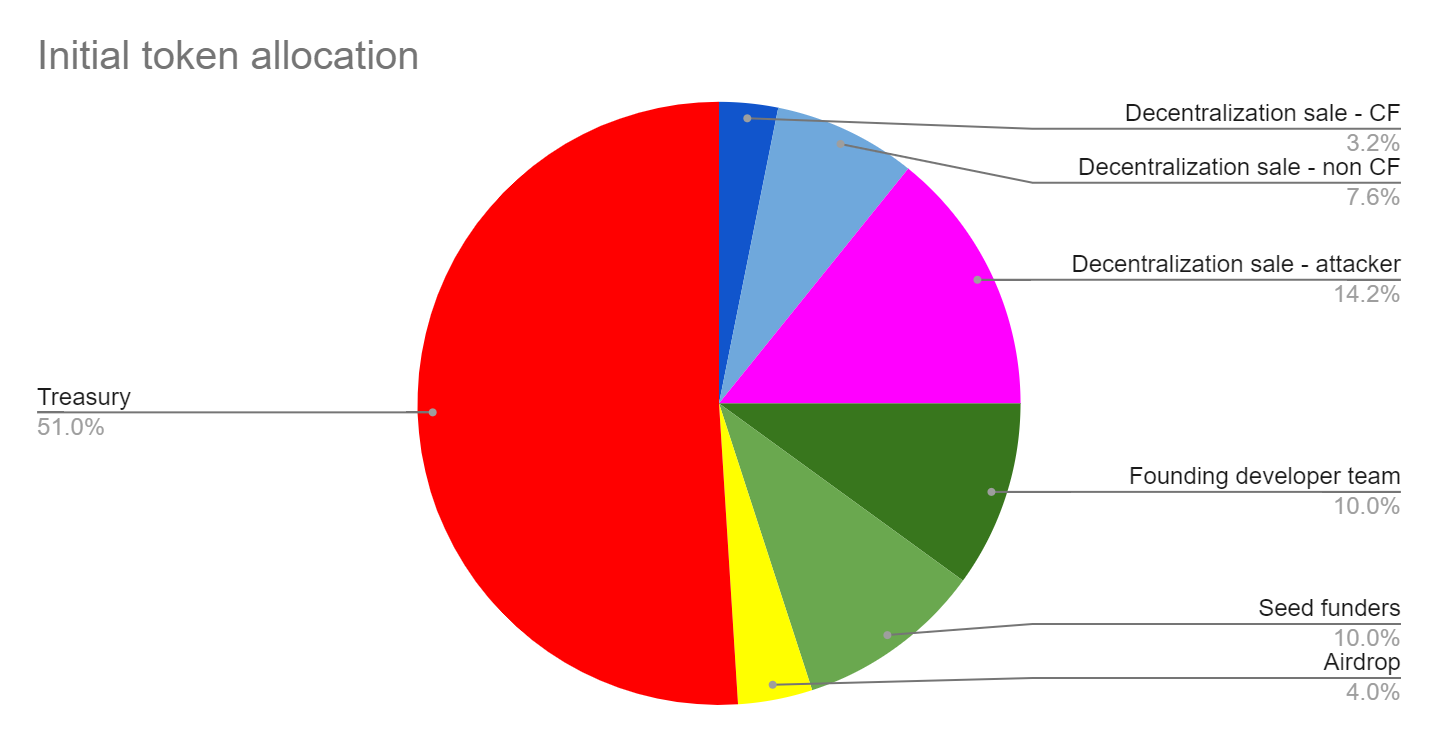
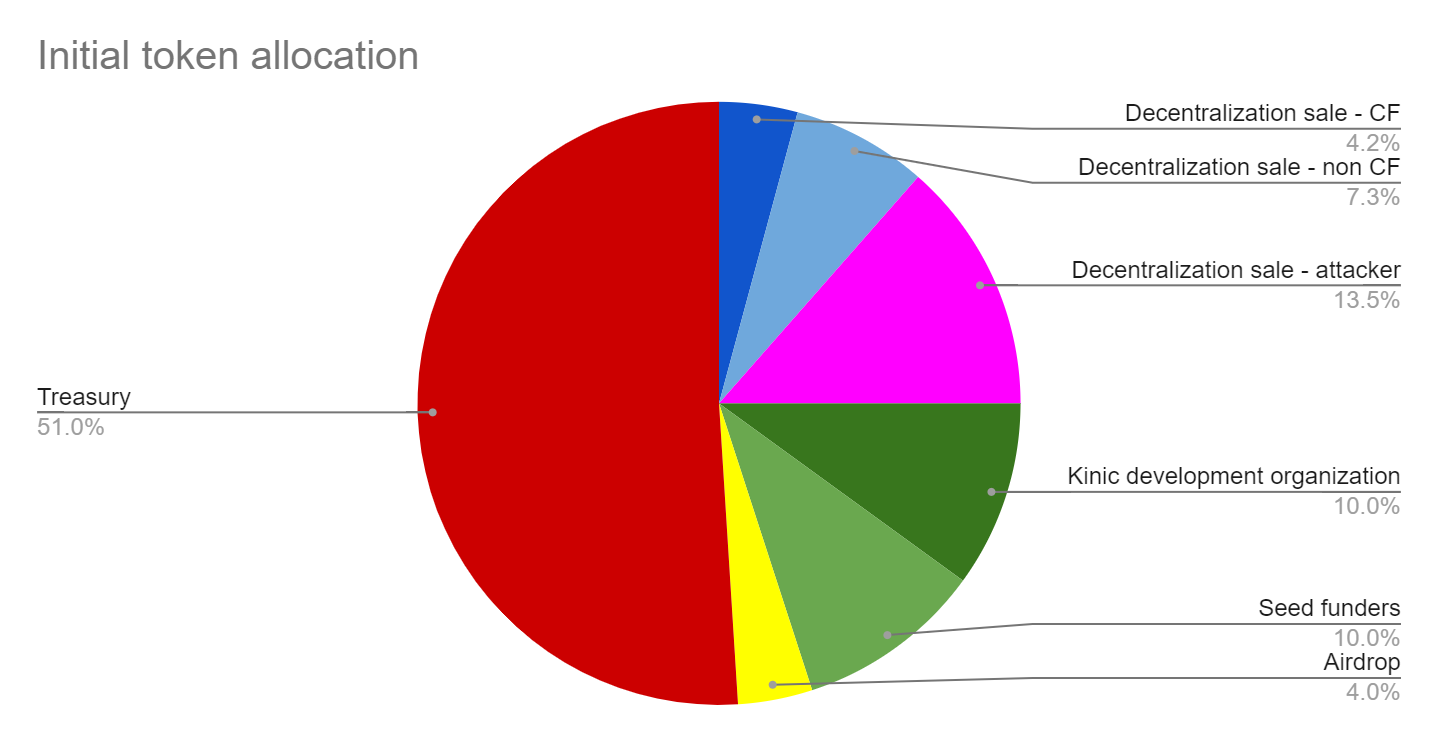
Change docs

Changed region(s): [[0.2754, 0.124, 0.7038, 0.9609], [0.6732, 0.341, 0.9791, 0.434], [0.7344, 0.6199, 0.9791, 0.6509]]

diff --git a/frontend/Search.vue b/frontend/Search.vue
@@ -31,25 +31,30 @@
 
   <!-- WHITEPAGE -->
   <header v-if="whitepaperMode" class="h-full">
-        <div class="content px-8 pt-4 pb-2 blackBG">
+        <div class="content px-8 pt-4 pb-2 blackBG" id="top">
             <!-- SEARCH RESULT PAGE NAV -->
             <nav class="flex items-center justify-between mt-1 mb-1">
                 <div class="mb-2 text-4xl font-extrabold leading-none tracking-tight md:text-3xl lg:text-4xl text-white">
-                  Kinic SNS Whitepaper
+                  Kinic SNS DAO Whitepaper
                 </div>
             </nav>
         </div>
         <div class="w-full px-8 pt-4">
             <div class="mb-4 rounded-t-1">
                 <div class="p-4 sm:mx-1 lg:mx-8 leading-normal text-lg">
+                  <h5 class="mb-2">
+                    <h2 section-trigger class="relative flex items-center w-full text-2xl font-semibold text-left border-b border-solid">
+                      Table of Contents
+                    </h2>
+                  </h5>
                   <nav class="space-y-2">
-                    <a href="#executive-summary" class="block text-blue-600 font-medium hover:underline">Executive Summary</a>
-                    <a href="#the-kinic-vision-and-product" class="block text-blue-600 font-medium hover:underline">The Kinic Vision and Product</a>
-                    <a href="#kinic-dao" class="block text-blue-600 font-medium hover:underline">Kinic DAO</a>
-                    <a href="#kinic-token-and-revenue" class="block text-blue-600 font-medium hover:underline">KINIC Token and Revenue</a>
-                    <a href="#kinic-dao-tokenomics" class="block text-blue-600 font-medium hover:underline">Kinic DAO Tokenomics</a>
-                    <a href="#launch-allocations-and-mechanics" class="block text-blue-600 font-medium hover:underline">Launch Allocations and Mechanics</a>
-                    <a href="#legal-disclaimers" class="block text-blue-600 font-medium hover:underline">Legal Disclaimers</a>
+                    <a href="#executive-summary" class="block text-blue-600 font-medium hover:underline">1. Executive Summary</a>
+                    <a href="#the-kinic-vision-and-product" class="block text-blue-600 font-medium hover:underline">2. The Kinic Vision and Product</a>
+                    <a href="#kinic-dao" class="block text-blue-600 font-medium hover:underline">3. Kinic DAO Launch and Governance</a>
+                    <a href="#kinic-token-and-revenue" class="block text-blue-600 font-medium hover:underline">4. Kinic DAO Treasury and Token Utility</a>
+                    <a href="#kinic-dao-tokenomics" class="block text-blue-600 font-medium hover:underline">5. Kinic DAO Tokenomics</a>
+                    <a href="#launch-allocations-and-mechanics" class="block text-blue-600 font-medium hover:underline">6. Launch Allocations and Mechanics</a>
+                    <a href="#legal-disclaimers" class="block text-blue-600 font-medium hover:underline">7. Token Holder Rights and Limitations</a>
                   </nav>
                   <div section-content class="overflow-hidden transition-all ease-soft-in-out duration-350">
                     <p class="mt-4 text-md text-gray-500">
@@ -65,16 +70,17 @@
                   <h5 class="mb-2">
                     <h2 section-trigger class="relative flex items-center w-full p-4 text-2xl font-semibold text-left border-b border-solid">
                       1. Executive Summary
+                      <a href="#top" class="hidden sm:block absolute right-4 text-sm cursor-pointer text-gray-800">Back to top</a>
                     </h2>
                   </h5>
                   <p class="mb-3">Kinic is the first and only search engine for web3 content that runs on blockchain.</p>
-                  <p class="mb-3">Kinic the answer to other search engines that are operated by a centralized entity, undermine data privacy, favor established players, and ignore the emerging world of web3 content.</p>
+                  <p class="mb-3">Kinic the answer to Google and other search engines that are operated by a centralized entity, undermine data privacy, favor established players, and ignore the emerging world of web3 content.</p>
                   <p class="mb-3">Currently, Kinic allows you to search all frontend canisters on the Internet Computer blockchain. Kinic’s roadmap includes adding content hosted on other blockchains and decentralized storage networks. Kinic’s SEO module will involve unprecedented transparency backed by zero-knowledge machine learning (ZKML) technology. All users will be able to trust that they are getting the best results as determined by Kinic’s algorithms, and are not being served ad based content other than which is clearly transparent.</p>
                   <p class="mb-3">Kinic’s vision will be fulfilled by decentralizing its governance using an on-chain, decentralized autonomous organization (DAO). The DAO will operate using the IC’s unique service nervous system. The Kinic DAO will manage and improve the Kinic software service by voting on proposals.</p>
                   <p class="mb-3">To submit proposals and vote, KINIC token holders must lock (“stake”) their tokens into neurons. To incentivize KINIC token holders to stake their tokens into neurons and vote, neurons receive rewards for voting that can be converted to KINIC tokens.</p>
                   <p class="mb-3">The treasury controlled by the Kinic DAO will hold KINIC tokens and ICP tokens. KINIC tokens can be used to pay for Kinic's current and upcoming products and services. The Kinic DAO earns ICP as revenue when users purchase KINIC tokens from the DAO. ICP tokens in the DAO’s treasury can be used to fund expenses.</p>
                   <p class="mb-3">Tokenomics refers to the initial set up and rules that drive the supply and trading of tokens. The total supply of KINIC tokens upon launch will be 6 million tokens. Minting tokens increases the total supply and burning tokens decreases them. KINIC tokens can only be burned by proposal. A reward rate of 2.5% of the total annual supply will be minted to pay voting rewards. KINIC tokens that are locked in a neuron are not part of the liquid supply.</p>
-                  <p class="mb-3">The Kinic DAO will launch with a total supply of 6 million KINIC tokens. 25% will be available for open sale in exchange for ICP tokens. 50% of the tokens will remain in the DAO’s treasury. 10% will be allocated to the development team and 10% allocated to seed funders. The maximum ICP that can be earned in the sale of the KINIC tokens is 2 million ICP. The minimum is 500,000 ICP. 1 KINIC token may be worth between 0.33 and 1.33 ICP tokens based on the DAO earning between 500,000 and 2 million ICP tokens in the decentralization sale.</p>
+                  <p class="mb-3">The Kinic DAO will launch with a total supply of 6 million KINIC tokens. 25% will be available for open sale in exchange for ICP tokens. 50% of the tokens will remain in the DAO’s treasury. 10% will be allocated to the Kinic development organization and 10% allocated to seed funders. The maximum ICP that can be earned in the sale of the KINIC tokens is 1.5 million ICP. The minimum is 500,000 ICP. 1 KINIC token may be worth between 0.33 and 1 ICP tokens based on the DAO earning between 500,000 and 1.5 million ICP tokens in the decentralization sale.</p>
 
                 </div>
               </div>
@@ -85,6 +91,7 @@
                   <h5 class="mb-2">
                     <h2 id="the-kinic-vision-and-product" section-trigger class="relative flex items-center w-full p-4 text-2xl font-semibold text-left border-b border-solid">
                       2. The Kinic Vision and Product
+                      <a href="#top" class="hidden sm:block absolute right-4 text-sm cursor-pointer text-gray-800">Back to top</a>
                     </h2>
                   </h5>
                   <p class="mb-3 font-semibold text-xl">Summary</p>
@@ -109,8 +116,8 @@
                     Several unique features, however, arguably make the IC the world’s most powerful blockchain and in many ways the truest embodiment of web3 to date. These features include the following:
                   </p>
                   <ol class="list-decimal list-inside mb-3">
-                    <li>IC smart contracts not only execute on-chain transactions but also store content files and other forms of data entirely on chain <a class="blueText" href="https://internetcomputer.org/how-it-works/smart-contracts-serve-the-web/" target="_blank">(32 gigabytes per smart contract)</a>.
-                      These smart contracts are referred to as “canisters”. A primary benefit is that they can run in any web browser because they are <a class="blueText" href="https://webassembly.org/" target="_blank">WebAssembly-based programs.</a></li>
+                    <li>IC smart contracts not only execute on-chain transactions but also store content files and other forms of data entirely on chain <a class="blueText" href="https://internetcomputer.org/how-it-works/smart-contracts-serve-the-web/" target="_blank">(52 gigabytes per smart contract)</a>.
+                      These smart contracts are referred to as “canisters”. A primary benefit is that web browsers can directly interact with canister smart contracts.</li>
                     <li>The IC blockchain operates at the <a class="blueText" href="https://wiki.internetcomputer.org/wiki/Web_Speed" target="_blank">speed of the standard web</a> and in principle can scale infinitely with the addition of more nodes.</li>
                     <li>Any web browser <a class="blueText" href="https://wiki.internetcomputer.org/wiki/Web_Serving" target="_blank">can be used</a> to view content stored on the IC, including websites and the front-end graphics that run inside smart contract canisters.</li>
                     <li>Publishing content to a smart contract can be done anonymously using login credentials such as the IC’s Webauthn-based <a class="blueText" href="https://wiki.internetcomputer.org/wiki/Internet_Computer_wiki#Internet_Identity_Introduction" target="_blank">Internet Identity</a>.</li>
@@ -118,7 +125,7 @@
                   </ol>
 
                   <p class="mb-3">
-                    As a result, the IC is an end-to-end decentralized compute platform and content network where everything takes place, is stored, and published on chain. More information about the IC is available <a class="blueText" href="https://internetcomputer.org/" target="_blank">here</a>. Other parts of the web3 ecosystem include decentralized content storage networks that complement the IC by specializing in long-term storage of files that are not frequently accessed. These networks include the Interplanetary File System and Arweave.
+                    As a result, the IC is an end-to-end decentralized compute platform and content network where everything takes place, is stored, and published on chain. More information about the IC is available <a class="blueText" href="https://internetcomputer.org/" target="_blank">here</a>. Other parts of the web3 ecosystem include decentralized content storage networks that complement the IC by specializing in long-term storage of files that are not frequently accessed. These networks include the Interplanetary File System (IPFS) and Arweave.
                   </p>
                   <p class="mb-3">
                     Content that is hosted on web3 needs a new vision for search. And Kinic provides a profound new vision: search that is fully private, user centric, and built on and for web3. The name Kinic comes from the word kin from kinship.
@@ -129,6 +136,8 @@
                   <ol class="list-decimal list-inside mb-3">
                     <li>
                       <b>Runs on chain.</b> Kinic is the only search engine that runs <b>entirely on chain</b> to benefit from the privacy, security, and immutability features of blockchain.
+                      Unlike privacy-focused search engines like DuckDuckGo that trust a centralized corporation to maintain user privacy, Kinic must operate according to the privacy-protecting <a class="blueText" target="_blank" href="https://medium.com/dfinity/the-internet-computer-blockchains-privacy-advantages-73340c6c42db">protocol rules</a> of the Internet Computer blockchain and its anonymous
+                      <a class="blueText" target="_blank" href="https://internetcomputer.org/docs/current/tokenomics/identity-auth/what-is-ic-identity"> login methods</a>.
                     </li>
                     <li>
                       <b>Searches content on web3.</b> Kinic is the only search engine dedicated to searching frontend content <b>on web3</b> as opposed to content about web3 that is on web2 such as <a class="blueText" href="https://www.kaito.ai/" target="_blank">Kaito</a>.
@@ -137,7 +146,7 @@
                       <b>Searches all of web3.</b> Kinic is the only search engine dedicated to searching <b>all</b> frontend content on web3 and not focused only on one web3 network such as <a class="blueText" href="https://ipfs-search.com/#/" target="_blank">IPFS Search</a>.
                     </li>
                     <li>
-                      <b>Searches frontend</b>. Kinic is the only <b>frontend</b> search engine for web3 unlike backend blockchain and NFT data explorers and analytics platforms.
+                      <b>Searches frontend</b>. Kinic is the only <b>frontend</b> search engine for web3. This is in contrast to backend blockchain and NFT data explorers and indexing protocols such as <a class="blueText" href="https://thegraph.com/en/" target="_blank">The Graph</a>.
                     </li>
                   </ol>
                   <hr class="mb-3"/>
@@ -192,7 +201,8 @@
                   </ol>
                   <h5 class="mt-5 mb-2">
                     <h2 id="kinic-dao" section-trigger class="relative flex items-center w-full p-4 text-2xl font-semibold text-left border-b border-solid">
-                      3. Kinic DAO: Launch and Governance
+                      3. Kinic DAO Launch and Governance
+                      <a href="#top" class="hidden sm:block absolute right-4 text-sm cursor-pointer text-gray-800">Back to top</a>
                     </h2>
                   </h5>
                   <p class="mb-3 font-semibold text-xl">
@@ -224,7 +234,7 @@
                     Creation of the Kinic DAO will take place as follows:
                   </p>
                   <ol class="list-disc list-inside mb-3">
-                    <li>Kinic developers will submit a proposal to the NNS with details (parameters) about the decentralization sale such as the initial token allocation, voting rules and rewards, and tokenomics. </li>
+                    <li>The Kinic development organization will submit a proposal to the NNS with details (parameters) about the decentralization sale such as the initial token allocation, voting rules and rewards, and tokenomics. </li>
                     <li>If the proposal is approved by the NNS, the decentralization sale of KINIC tokens will begin to take place.</li>
                     <li>The ICP raised in the sale will be placed into the smart contract canister owned and controlled by the Kinic DAO. </li>
                   </ol>
@@ -284,7 +294,7 @@
                     To incentivize KINIC holders to vote, voters receive voting rewards each time they vote.
                   </p>
                   <p class="mb-3">
-                    To qualify for voting rewards, KINIC holders must first stake their tokens and set the neuron’s dissolve delay. The dissolve delay is the length of time that a neuron is locked. One year is the maximum dissolve delay.
+                    To qualify for voting rewards, KINIC holders must first stake their tokens and set the neuron’s dissolve delay to at least one month long. The dissolve delay is the length of time that a neuron is locked. One year is the maximum dissolve delay.
                   </p>
                   <p class="mb-3">
                     Staked KINIC tokens (neurons) cannot be traded. To unlock staked KINIC tokens, they must be dissolved. When the dissolve delay has ended, the KINIC tokens can be dissolved and then traded.
@@ -296,13 +306,10 @@
                     When neurons vote, voting rewards are earned by the neurons in the form of a maturity. Maturity is an attribute of a neuron and not a tradable asset. The more a neuron votes, the more maturity their neuron obtains. Voting rewards (maturity) are earned daily based on all of the votes of the DAO that ended on that day.
                   </p>
                   <p class="mb-3">
-                    To generate income from maturity, the KINIC token holder must first convert the maturity into a new neuron that will contain new KINIC tokens. This process will consume (or “burn”) the converted maturity. It is also the primary inflationary mechanism for KINIC tokens.
+                    To generate income from maturity, the KINIC token holder must convert (disburse) the maturity into new KINIC tokens. This process will consume (or “burn”) the converted maturity. By default, units of maturity are converted into KINIC tokens on a 1:1 basis. For example, disbursing a neuron that 100 has maturity will convert to 100 KINIC tokens. These new KINIC tokens will be provided to the token holder’s main account.
                   </p>
                   <p class="mb-3">
-                    The ratio of maturity to ICP changes over time based on the ICP/Cycles conversion rate. For example, converting 100 maturity on February 1, 2022 would earn 100.73 ICP. Further details about converting maturity to ICP can be found <a class="blueText" href="https://wiki.internetcomputer.org/wiki/Maturity_modulation" target="_blank">here</a>.
-                  </p>
-                  <p class="mb-3">
-                    As an alternative to converting maturity into KINIC, a voting member can also stake their maturity to earn additional voting rewards.
+                    As an alternative to converting maturity into KINIC tokens, a voting member can also stake their maturity to earn additional voting rewards.
                   </p>
                   <p class="mb-3 font-semibold underline">
                     Voting Power: Dissolve Delay Bonus and Age Bonus
@@ -327,7 +334,7 @@
                     Neurons can directly vote on individual proposals using the Kinic section inside the NNS app <a class="blueText" href="https://nns.ic0.app/" target="_blank">here</a>. Neurons can also delegate their votes to another voting member.
                   </p>
                   <p class="mb-3">
-                    Vote delegation is accomplished by setting a neuron to follow another neuron; that is, to vote along with the votes of another neuron (per proposal type). For example, neurons can follow the Kinic development team voting neuron The follower neuron will vote for a proposal if a majority of the development team agrees. This way, neurons will follow the development team’s votes. An advantage of following the development team’s neuron is that the development team votes on every proposal. This enables followers to maximize voting rewards for voting on every proposal as well.
+                    Vote delegation is accomplished by setting a neuron to follow another neuron; that is, to vote along with the votes of another neuron (per proposal type). For example, neurons can follow the Kinic development organization voting neuron The follower neuron will vote for a proposal if a majority of the Kinic development organization agrees. This way, neurons will follow the Kinic development organization’s votes. An advantage of following the Kinic development organization’s neuron is that the Kinic development organization votes on every proposal. This enables followers to maximize voting rewards for voting on every proposal as well.
                   </p>
                   <p class="mb-3">
                     Voting neurons may effectively gain disproportionate voting power if they have a large number of followers. This is similar to representative democracy.
@@ -335,6 +342,7 @@
                   <h5 class="mt-5 mb-2">
                     <h2 id="kinic-token-and-revenue" section-trigger class="relative flex items-center w-full p-4 text-2xl font-semibold text-left border-b border-solid">
                       4. Kinic DAO Treasury and Token Utility
+                      <a href="#top" class="hidden sm:block absolute right-4 text-sm cursor-pointer text-gray-800">Back to top</a>
                     </h2>
                   </h5>
                   <p class="mb-3 font-semibold text-xl">
@@ -360,7 +368,7 @@
                     To enable the trading of KINIC, proposals will be made soon after the decentralization sale to transfer KINIC and ICP to decentralized exchange liquidity pools. The purpose of enabling trading in KINIC tokens is to enable people to join in or exit from Kinic DAO governance. The purpose is not to enable or encourage investment or speculation in KINIC tokens.
                   </p>
                   <p class="mb-3">
-                    ICP tokens in the DAO’s treasury can be used to fund expenses such as paying cycles for hosting, third-party services, and paying the development team. Infrequent proposals will be made to transfer ICP from the treasury to Kinic’s cycle dispenser canister. The purpose is for the canister can pay for cycles other Kinic canisters.
+                    ICP tokens in the DAO’s treasury can be used to fund expenses such as paying cycles for hosting, third-party services, and paying developers. Infrequent proposals will be made to transfer ICP from the treasury to Kinic’s cycle dispenser canister. The purpose is for the canister to pay for cycles other Kinic canisters.
                   </p>
                   <p class="mb-3">
                     Kinic is an on-chain service. It currently has the following off-chain dependencies:
@@ -403,7 +411,7 @@
                     The Kinic DAO earns ICP as revenue when users purchase KINIC tokens from the DAO with ICP tokens. The Kinic DAO also earns ICP if the DAO stakes its ICP into a neuron on the NNS and earns voting rewards.
                   </p>
                   <p class="mb-3">
-                    The Kinic DAO’s expenses will come from spending ICP to buy cycles for hosting costs, third party services, and the core development team.
+                    The Kinic DAO’s expenses will come from spending ICP to buy cycles for hosting costs, third party services, and the Kinic development organization.
                   </p>
                   <p class="mb-3">
                     Expenses will most likely exceed revenue for the first few years of the DAO but revenue is expected to eventually exceed DAO expenses.
@@ -411,6 +419,7 @@
                   <h5 class="mt-5 mb-2">
                     <h2 id="kinic-dao-tokenomics" section-trigger class="relative flex items-center w-full p-4 text-2xl font-semibold text-left border-b border-solid">
                       5. Kinic DAO Tokenomics
+                      <a href="#top" class="hidden sm:block absolute right-4 text-sm cursor-pointer text-gray-800">Back to top</a>
                     </h2>
                   </h5>
                   <p class="mb-3 font-semibold text-xl">
@@ -435,7 +444,7 @@
                     Voting rewards incentivize token holders to keep them locked up and not be part of the liquid supply. A reward rate of 2.5% of the total annual supply will be minted to pay voting rewards to neurons that vote. As discussed in the Kinic DAO: Launch and Governance section, these rewards are given in the form of maturity. The DAO’s initial voting reward rate of 2.5% can be changed by vote.
                   </p>
                   <p class="mb-3">
-                    A neuron’s maturity is burned when it is disbursed into a newly spawned (i.e., created) neuron. When the new neuron dissolves after 7 days, it will contain new KINIC tokens. At that time, the DAO will mint the corresponding value of KINIC tokens.
+                    A neuron’s maturity is burned when it is disbursed to provide KINIC tokens to the token holder’s main account. At that time, the DAO will mint the corresponding value of KINIC tokens. Converting maturity into KINIC tokens is the primary inflationary mechanism for KINIC tokens.The Kinic DAO will launch with a total supply of 6 million KINIC tokens. 25% will be available for open sale in exchange for ICP tokens.
                   </p>
                   <p class="mb-3">
                     KINIC tokens can only be burned by proposal. Usage of KINIC will be given back into the DAO treasury. The DAO can make a proposal to burn or otherwise utilize the tokens.
@@ -507,15 +516,17 @@
                   <h5 class="mt-5 mb-2">
                     <h2 id="launch-allocations-and-mechanics" section-trigger class="relative flex items-center w-full p-4 text-2xl font-semibold text-left border-b border-solid">
                       6. Launch Allocations and Mechanics
+                      <a href="#top" class="hidden sm:block absolute right-4 text-sm cursor-pointer text-gray-800">Back to top</a>
                     </h2>
                   </h5>
                   <p class="mb-3 font-semibold text-xl">
                     Summary
                   </p>
                   <ol class="list-disc list-inside mb-3">
-                    <li>The Kinic DAO will launch with a total supply of 6 million KINIC tokens. 25% will be available for open sale in exchange for ICP tokens. 50% of the tokens will remain in the DAO’s treasury. 10% will be allocated to the development team and 10% allocated to seed funders.</li>
-                    <li>The maximum ICP that can be earned in the sale of the KINIC tokens is 2 million ICP, and the minimum is 500,000 ICP.</li>
-                    <li>1 KINIC token may be worth between 0.33 and 1.33 ICP tokens based on earning between 500,000 and 2 million ICP tokens</li>
+                    <li>The Kinic DAO will launch with a total supply of 6 million KINIC tokens. 25% will be available for open sale in exchange for ICP tokens.</li>
+                    <li>50% of the tokens will remain in the DAO’s treasury. 10% will be allocated to the Kinic development organization, 10% allocated to seed funders, and 4% will be allocated to Kinic NFT holders via airdrop.</li>
+                    <li>The maximum ICP that can be earned in the sale of the KINIC tokens is 1.5 million ICP, and the minimum is 500,000 ICP.</li>
+                    <li>1 KINIC token may be worth between 0.33 and 1.33 ICP tokens based on earning between 500,000 and 1.5 million ICP tokens</li>
                   </ol>
                   <p class="mb-3 font-semibold underline">
                     Initial token allocation
@@ -524,13 +535,21 @@
                     The purpose of the decentralization sale is to decentralize the governance of the Kinic DAO. The Kinic DAO will launch with a total supply of 6 million KINIC tokens.
                   </p>
                   <p class="mb-3">
-                    Out of the total 6 million supply of KINIC tokens, 25% (1,500,000) will be available for open sale in exchange for ICP tokens. The maximum ICP that can be earned in the sale of the 1,500,000 KINIC is 2 million ICP, and the minimum is 500,000 ICP.
+                    Out of the total 6 million supply of KINIC tokens, 25% (1,500,000) will be available for open sale in exchange for ICP tokens. The maximum ICP that can be earned in the sale of the 1,500,000 KINIC is 1,500,000 million ICP, and the minimum is 500,000 ICP.
                   </p>
+                  <p class="mb-3">
+                    The Kinic DAO’s two million ICP funding target is based on comparable funding rounds:
+                  </p>
+                  <ol class="list-disc list-inside mb-3">
+                    <li>Privacy-focused search engine DuckDuckGo <a class="blueText" target="_blank" href="https://www.crunchbase.com/organization/duck-duck-go">has raised</a> a total of $172 million across four funding rounds, the most recent of which was <a href="https://spreadprivacy.com/duckduckgrowing/">$100 million</a> in late 2020.</li>
+                    <li>In January 2022, The Graph Foundation <a class="blueText" target="_blank" href="https://thegraph.com/blog/graph-raise/">raised</a> $50 million to build an indexing protocol for querying data on networks like Ethereum and IPFS.</li>
+                    <li>In March 2023, Kaito <a class="blueText" target="_blank" href="https://www.linkedin.com/pulse/kaito-ai-raises-53m-transform-crypto-search-chatgpt-kaitoai/?trackingId=1QyGZzaTRYMOo0rKhm0F2w%3D%3D">raised</a> $5.3 million to transform crypto search with ChatGPT.</li>
+                  </ol>
                   <p class="mb-3">
                     From the 1,500,000 KINIC tokens available as part of the open sale, Kinic will seek to sell 4.2% (250,000) to the Internet Computer’s Community Fund and the remaining 20.8% (1,250,000) KINIC to the community more generally. If the target maximum ICP is earned in the sale, the amount of ICP earned from the Community Fund will be 252,000 ICP.
                   </p>
                   <p class="mb-3">
-                    50% (3,000,000) will remain in the DAO’s treasury. 10% will be allocated to the development team and funders. 4% (240,000) will be allocated to Kinic NFT holders via airdrop.
+                    50% (3,000,000) will remain in the DAO’s treasury. 10% will be allocated to the Kinic development organization and funders. 4% (240,000) will be allocated to Kinic NFT holders via airdrop.
                   </p>
                   <p class="mb-3">
                     1% (60,000) of the KINIC tokens will be used to create liquidity pools on exchanges for trading. The tokens available for trade will be backed by ICP earned from the decentralization sale. Proposals will be required to be made and approved to transfer KINIC tokens and ICP to an exchange.
@@ -560,40 +579,41 @@
                     The neuron with 0 months dissolve delay can immediately be released into liquid KINIC tokens. Accordingly, 20% of the neurons for buyers in the decentralization sale will be immediately liquid.
                   </p>
                   <p class="mb-3 font-semibold underline">
-                    Allocation to Development Team and Seed Funders
+                    Allocation to Kinic Development Organization and Seed Funders
                   </p>
                   <p class="mb-3">
-                    The founding Kinic development team will receive 10% (600,000) of the KINIC tokens in the form of 3 neurons that have a 1 month dissolve delay.
+                    The founding Kinic development organization will receive 10% (600,000) of the KINIC tokens in the form of 3 neurons that have a 1 month dissolve delay.
                   </p>
                   <p class="mb-3">
                     These three neurons have the following vesting schedule:
                   </p>
                   <ol class="list-disc list-inside mb-3">
-                    <li>25% (150,000) vested for 6 months</li>
                     <li>25% (150,000) vested for 1 year</li>
-                    <li>50% (300,000) vested for three years.</li>
+                    <li>25% (150,000) vested for 2 years</li>
+                    <li>50% (300,000) vested for 3 years</li>
                   </ol>
                   <p class="mb-3">
-                    During the vesting period, neurons cannot be disbursed into tokens or otherwise changed. The 1 month dissolve delay reduces the relative voting power of the KINIC tokens owned by the development team.
+                    During the vesting period, neurons cannot be disbursed into tokens or otherwise changed. The 1 month dissolve delay reduces the relative voting power of the KINIC tokens owned by the Kinic development organization.
                   </p>
                   <p class="mb-3">
                     Likewise, Kinic seed funders will receive 10% (600,000) of the KINIC tokens in the form of 2 neurons that have a 1 month dissolve delay. These neurons have the following vesting schedule:
                   </p>
                   <ol class="list-disc list-inside mb-3">
-                    <li>50% (300,000) no vesting</li>
-                    <li>50% (300,000) vested for 12 months</li>
+                    <li>25% (150,000) no vesting</li>
+                    <li>25% (150,000) vested for 1 year</li>
+                    <li>50% (300,000) vested for 2 years</li>
                   </ol>
                   <p class="mb-3 font-semibold underline">
                     Allocation to Kinic NFT Holders
                   </p>
                   <p class="mb-3">
-                    4% of KINIC tokens (240,000) will be given to Kinic NFT holders.
+                    4% of KINIC tokens (240,000) will be given to Kinic NFT holders. NFT holders will receive their KINIC tokens in the form of three neurons. These three neurons will have the same dissolve delay and vesting schedule as the seed funders.
                   </p>
                   <p class="mb-3">
                     The process to disburse Kinic NFT holders will require a snapshot on April 17th 8PM JST, owners at this time will be recorded and set into the sns.yml file. Any pending transfer of an NFT, sale, or alteration of ownership after this point in time will not be recorded. Please make sure to hold your NFT at the time of the snapshot. *Please note that if you purchase a Kinic NFT after this time it will not be included in the snapshot.
                   </p>
                   <p class="mb-3">
-                    The Kinic NFT is available on <a class="blueText" href="https://entrepot.app/marketplace/kinic" target="_blank">Entrepot</a>.
+                    The Kinic NFT is available on <a class="blueText" target="_blank" href="https://entrepot.app/marketplace/kinic">Entrepot</a>.
                   </p>
                   <p class="mb-3 font-semibold underline">
                     Allocation to DAO Treasury
@@ -608,7 +628,7 @@
                     <div class="border-b border-r px-4 py-2 font-medium bg-gray-100">The total number of KINIC tokens to be sold</div>
                     <div class="border-b px-4 py-2">1,500,000 (25% of total)</div>
                     <div class="border-b border-r px-4 py-2 font-medium bg-gray-100">The maximum ICP to be raised</div>
-                    <div class="border-b px-4 py-2">2,000,000</div>
+                    <div class="border-b px-4 py-2">1,500,000</div>
                     <div class="border-b border-r px-4 py-2 font-medium bg-gray-100">The minimum ICP to be raised (otherwise sale fails and ICP returned)</div>
                     <div class="border-b px-4 py-2">500,000</div>
                     <div class="border-b border-r px-4 py-2 font-medium bg-gray-100">End date of sale (unless maximum ICP raised sooner)</div>
@@ -629,10 +649,10 @@
                     The value (in ICP) of KINIC tokens upon launch is based upon how many ICP tokens are raised in the decentralization sale.
                   </p>
                   <p class="mb-3">
-                    The more ICP tokens that are exchanged for 1.5 million KINIC tokens, the higher the value of a single KINIC token. This is because the price of 1 KINIC equals the amount of ICP earned (between 500,000 and 2 million) divided by the number of KINIC tokens sold (1.5 million).
+                    The more ICP tokens that are exchanged for 1.5 million KINIC tokens, the higher the value of a single KINIC token. This is because the price of 1 KINIC equals the amount of ICP earned (between 500,000 and 1.5 million) divided by the number of KINIC tokens sold (1.5 million).
                   </p>
                   <p class="mb-3">
-                    Accordingly, 1 KINIC token may be worth between 0.33 and 1.33 ICP tokens based on earning between 500,000 and 2 million ICP tokens, respectively, as shown in the following chart.
+                    Accordingly, 1 KINIC token may be worth between 0.33 and 1 ICP tokens based on earning between 500,000 and 1.5 million ICP tokens, respectively, as shown in the following chart.
                   </p>
                   <img class="w-full sm:max-w-xs" style="max-width:830px;" src="./assets/image4.png" alt="">
                   <p class="mb-3">
@@ -647,7 +667,7 @@
                   <img class="w-full sm:max-w-xs" style="max-width:830px;" src="./assets/image1.png" alt="">
                   <hr class="mb-3"/>
                   <p class="mb-3 font-semibold underline">
-                    Legal Disclaimers
+                    7. Token Holder Rights and Limitations
                   </p>
                   <p class="mb-3">
                       Any person that purchases, holds, owns, or otherwise directly or indirectly controls or benefits from one or more KINIC tokens (a “Tokenholder”) agrees and acknowledges the following terms and conditions:
@@ -655,13 +675,13 @@
                   <ol id="legal-disclaimers" class="list-decimal list-inside mb-3">
                     <li>The purpose of the Tokenholder’s interest is not for investment, trading, speculation, or any other financial purpose.</li>
                     <li>Each Tokenholder is a natural person acting on its own behalf and not for the benefit of any other person.</li>
-                    <li>The Tokenholder is not a United States citizen and is not physically present inside the United States, except for the development team and seed funders.</li>
+                    <li>The Tokenholder is not a United States citizen and is not physically present inside the United States, except for the Kinic development organization and seed funders.</li>
                     <li>The Kinic DAO, and nothing in this whitepaper, is intended to, or shall be deemed to, establish any partnership or joint venture between any of the Tokenholders, or authorize any Tokenholder to make or enter into any commitments for or on behalf of any other party. </li>
                     <li>To the maximum extent permitted by law, each Token holder absolutely and irrevocably waives any and all claims, actions, causes of action, loss, damage and expense including any and all attorneys’ fees and other costs of enforcement arising out of or in connection with any breach or alleged breach of any fiduciary duty by any other Tokenholders or the Kinic DAO. It is the express intent of the Tokenholders that each Tokenholder and the Kinic DAO shall be and hereby are relieved of any and all fiduciary duties which might otherwise be applicable.</li>
                     <li>In no event shall any Tokenholder or the Kinic DAO be liable to any other Tokenholder for any loss of anticipated profits or other consequential, special or indirect loss or damage of any nature arising at any time, whether arising under contract, tort (including negligence), strict liability or for any other cause whatsoever.</li>
                     <li>No Tokenholder shall bring any legal claim, action, or proceeding against any other Tokenholder on any basis.</li>
-                    <li>No Tokenholder is relying upon any statement or representation made by the founding development team, the Kinic DAO, or any other Tokenholder.</li>
-                    <li>No Tokenholder, the founding development team, nor the Kinic DAO, makes any express or implied warranty, any disclaims all such express or implied warranties, including any warranties of merchantability or fitness for a particular purpose.</li>
+                    <li>No Tokenholder is relying upon any statement or representation made by the founding Kinic development organization, the Kinic DAO, or any other Tokenholder.</li>
+                    <li>No Tokenholder, the founding Kinic development organization, nor the Kinic DAO, makes any express or implied warranty, any disclaims all such express or implied warranties, including any warranties of merchantability or fitness for a particular purpose.</li>
                     <li>Tokenholders that fail to stake their KINIC tokens and engage in voting for a reasonable time are subject to having their tokens repurchased by the DAO.</li>
                   </ol>
                   <p class="mb-6">
@@ -1966,7 +1986,7 @@ export default {
   beforeMount () {
     const self = this;
     if (location.port === '3000' || location.port === '8000') {
-      this.host = ''
+      this.host = 'https://cat.icme.io/search'
     }
     window.onpopstate = function () {
       self.setSearch();
@@ -1983,7 +2003,7 @@ export default {
       claimCanister: '',
       bidAddress: '',
       accountID: '',
-      host: '',
+      host: 'https://cat.icme.io/search',
       searchMode: false,
       adMode: false,
       whitepaperMode: false,
